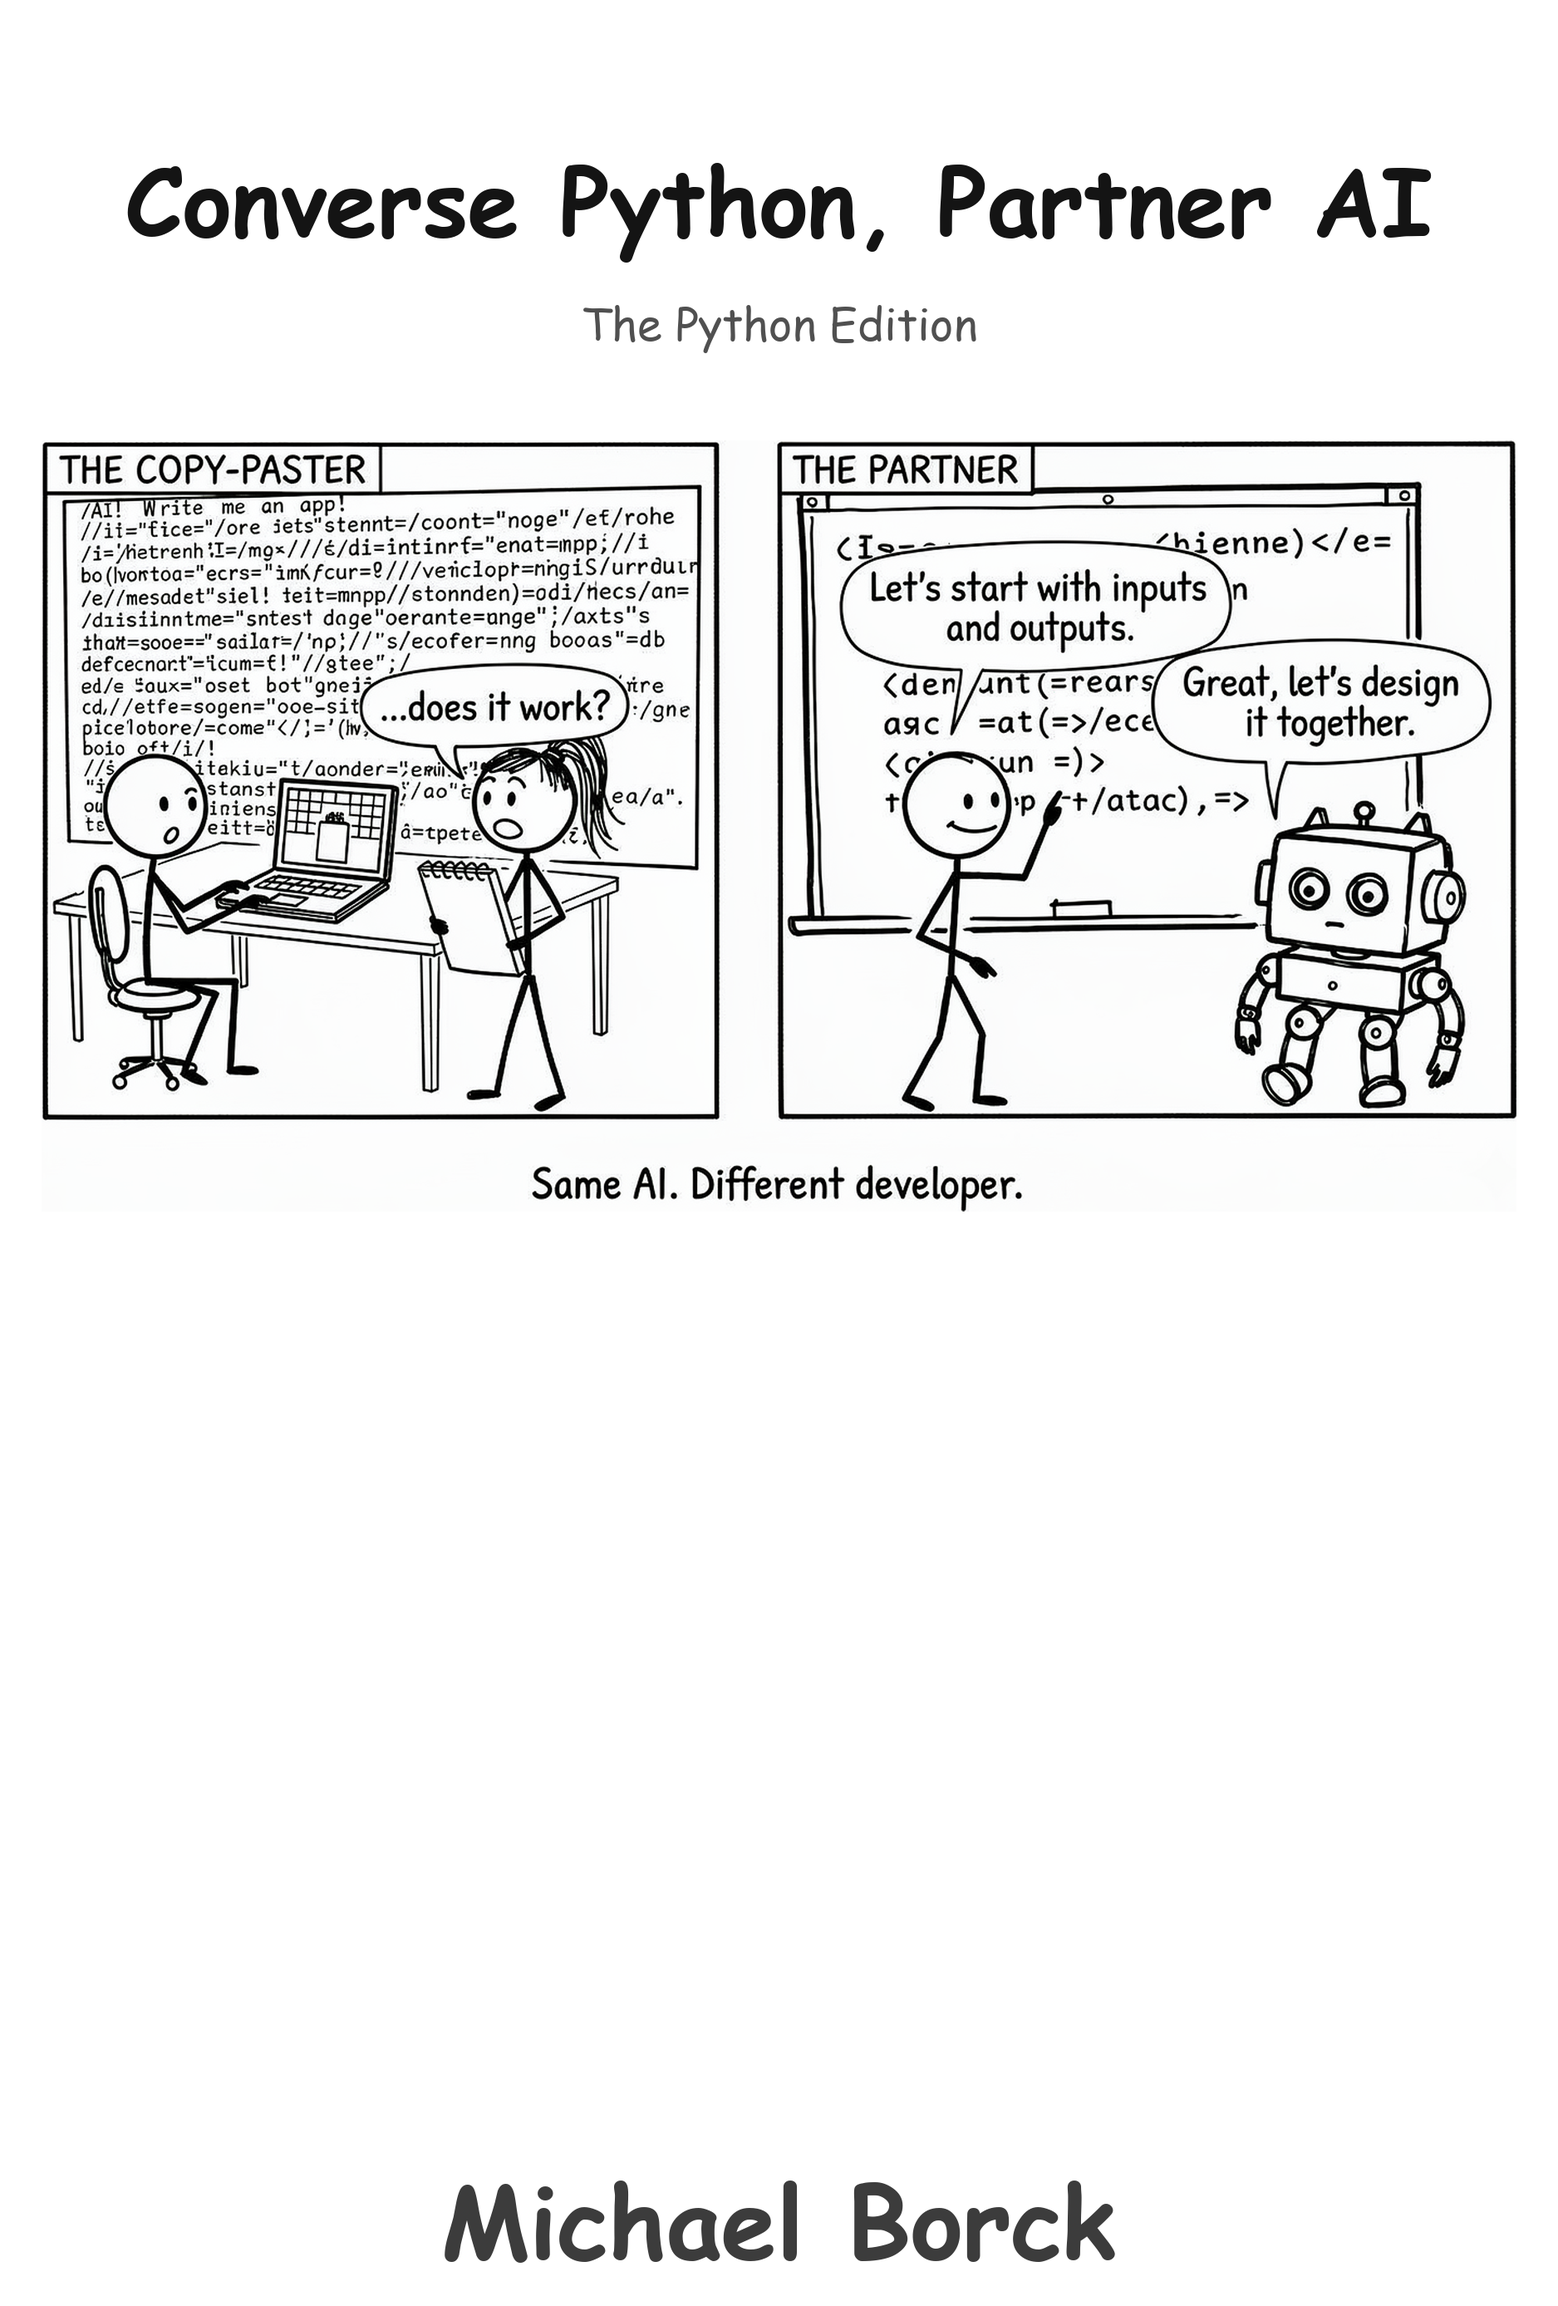
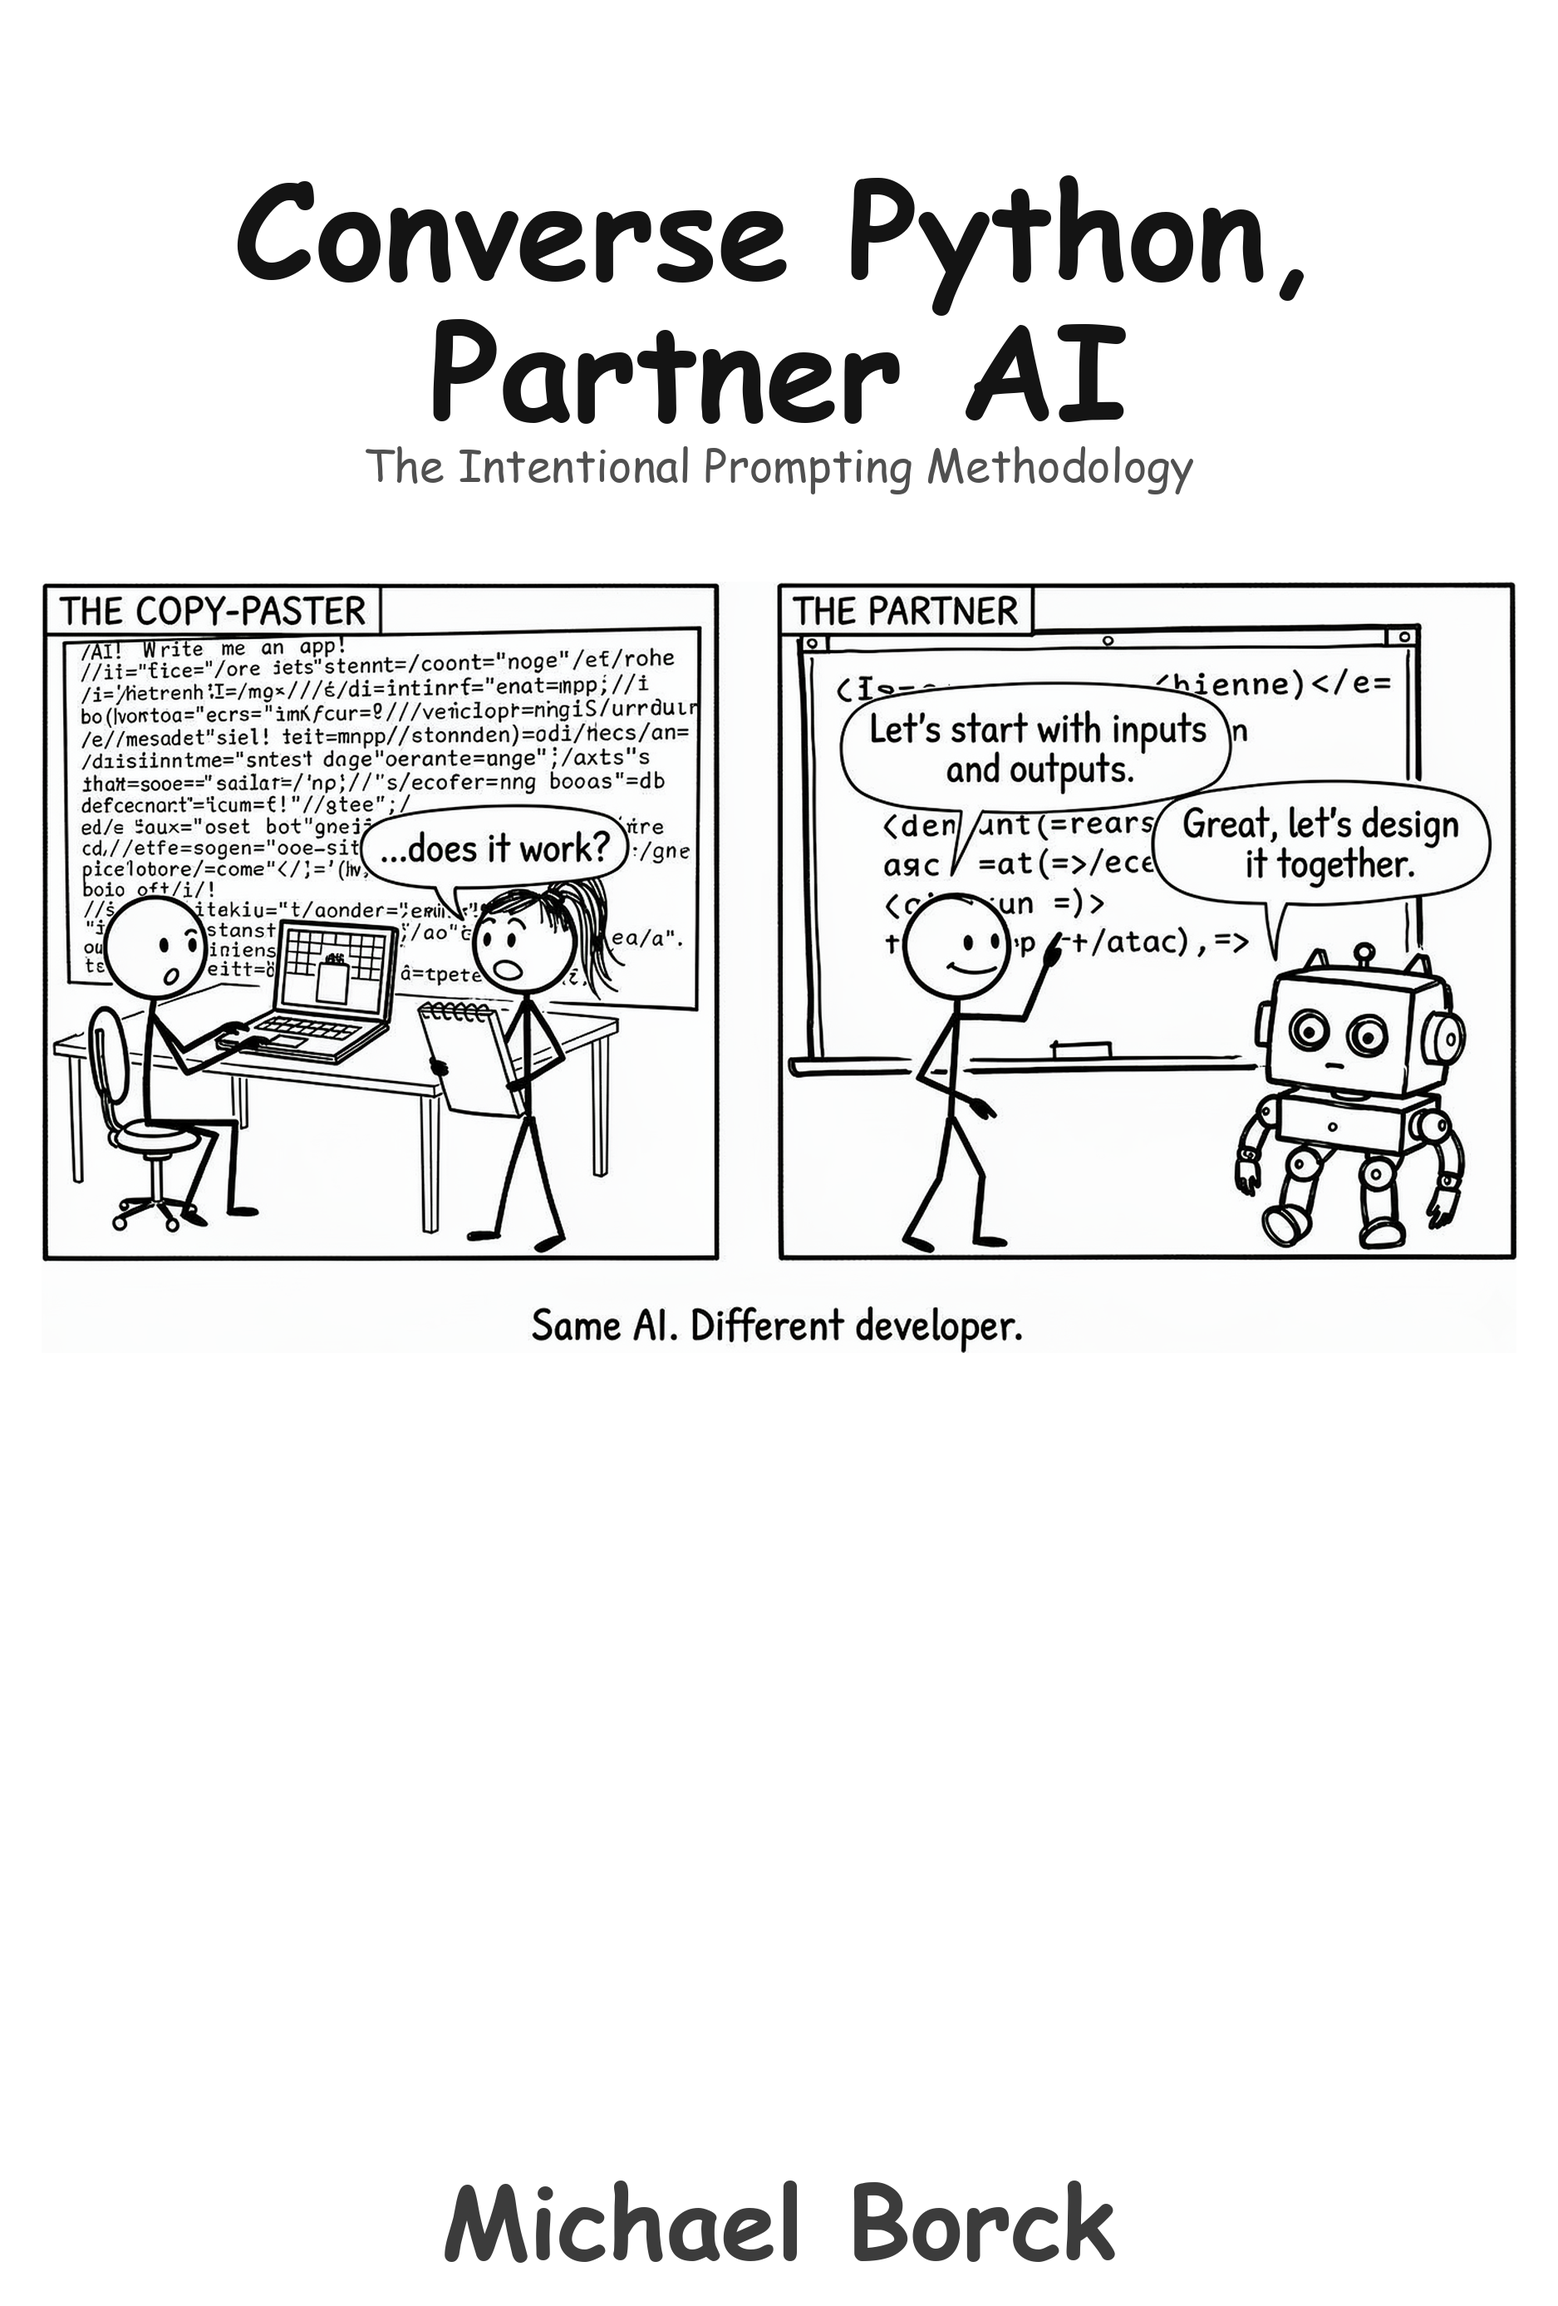
Update subtitle to 'The Intentional Prompting Methodology'
Replace 'The Python Edition' (legacy reference to CND) with a subtitle
that describes what the book actually teaches. Regenerate cover.

Changed region(s): [[0.0, 0.062, 0.9899, 0.5888], [0.9589, 0.1859, 0.9899, 0.2789]]

diff --git a/copyright-page.tex b/copyright-page.tex
@@ -3,7 +3,7 @@
 
 \begin{flushleft}
 \textbf{Converse Python, Partner AI}\\
-The Python Edition\\[1.5em]
+The Intentional Prompting Methodology\\[1.5em]
 Copyright \textcopyright\ 2026 Michael Borck. All rights reserved.\\[1em]
 Published by Michael Borck\\
 Perth, Western Australia\\[1em]
